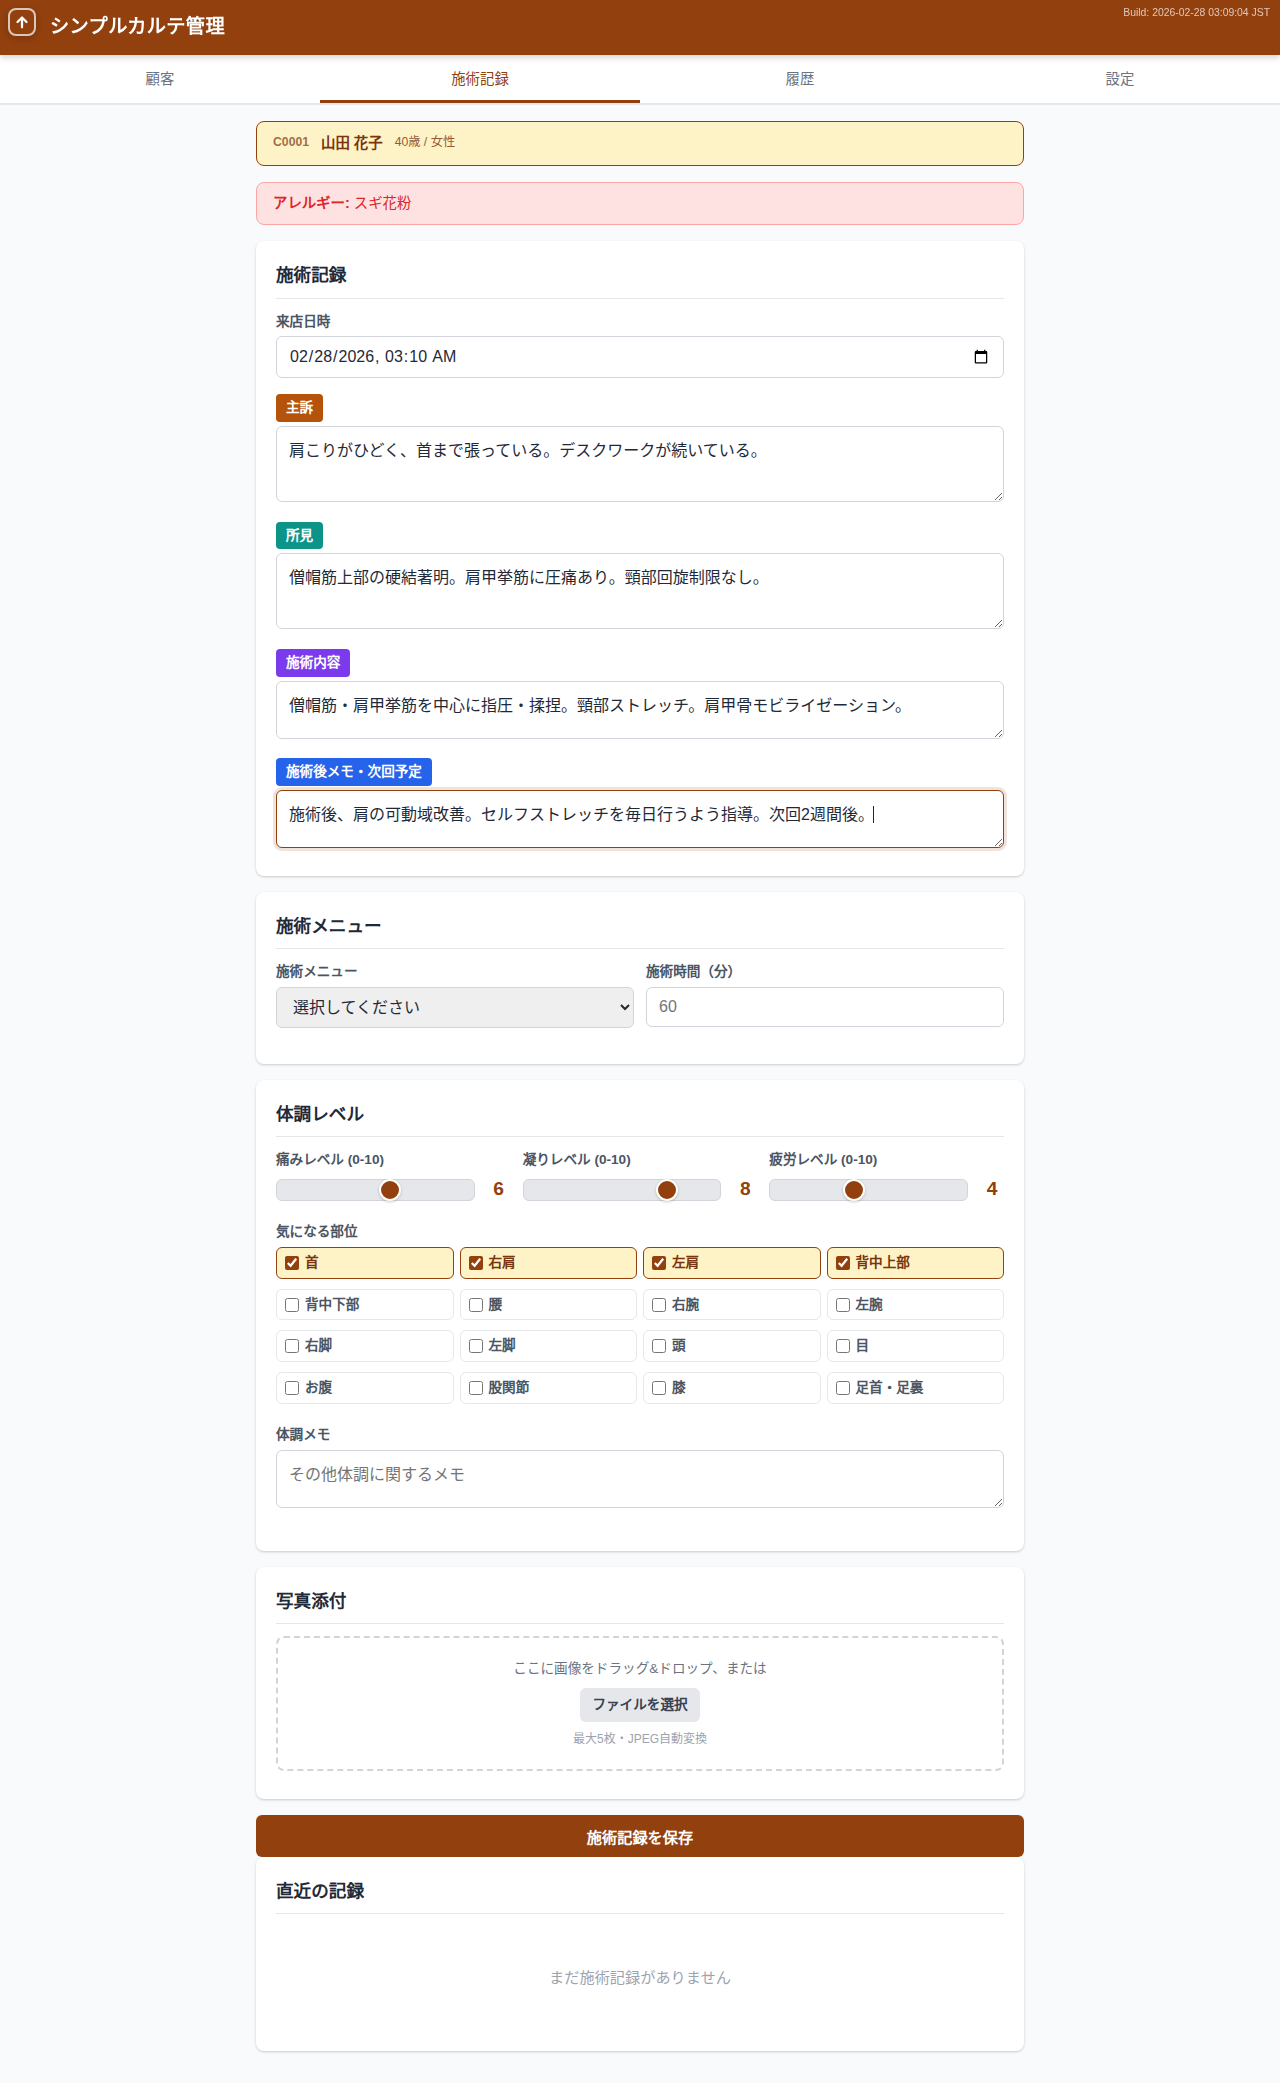
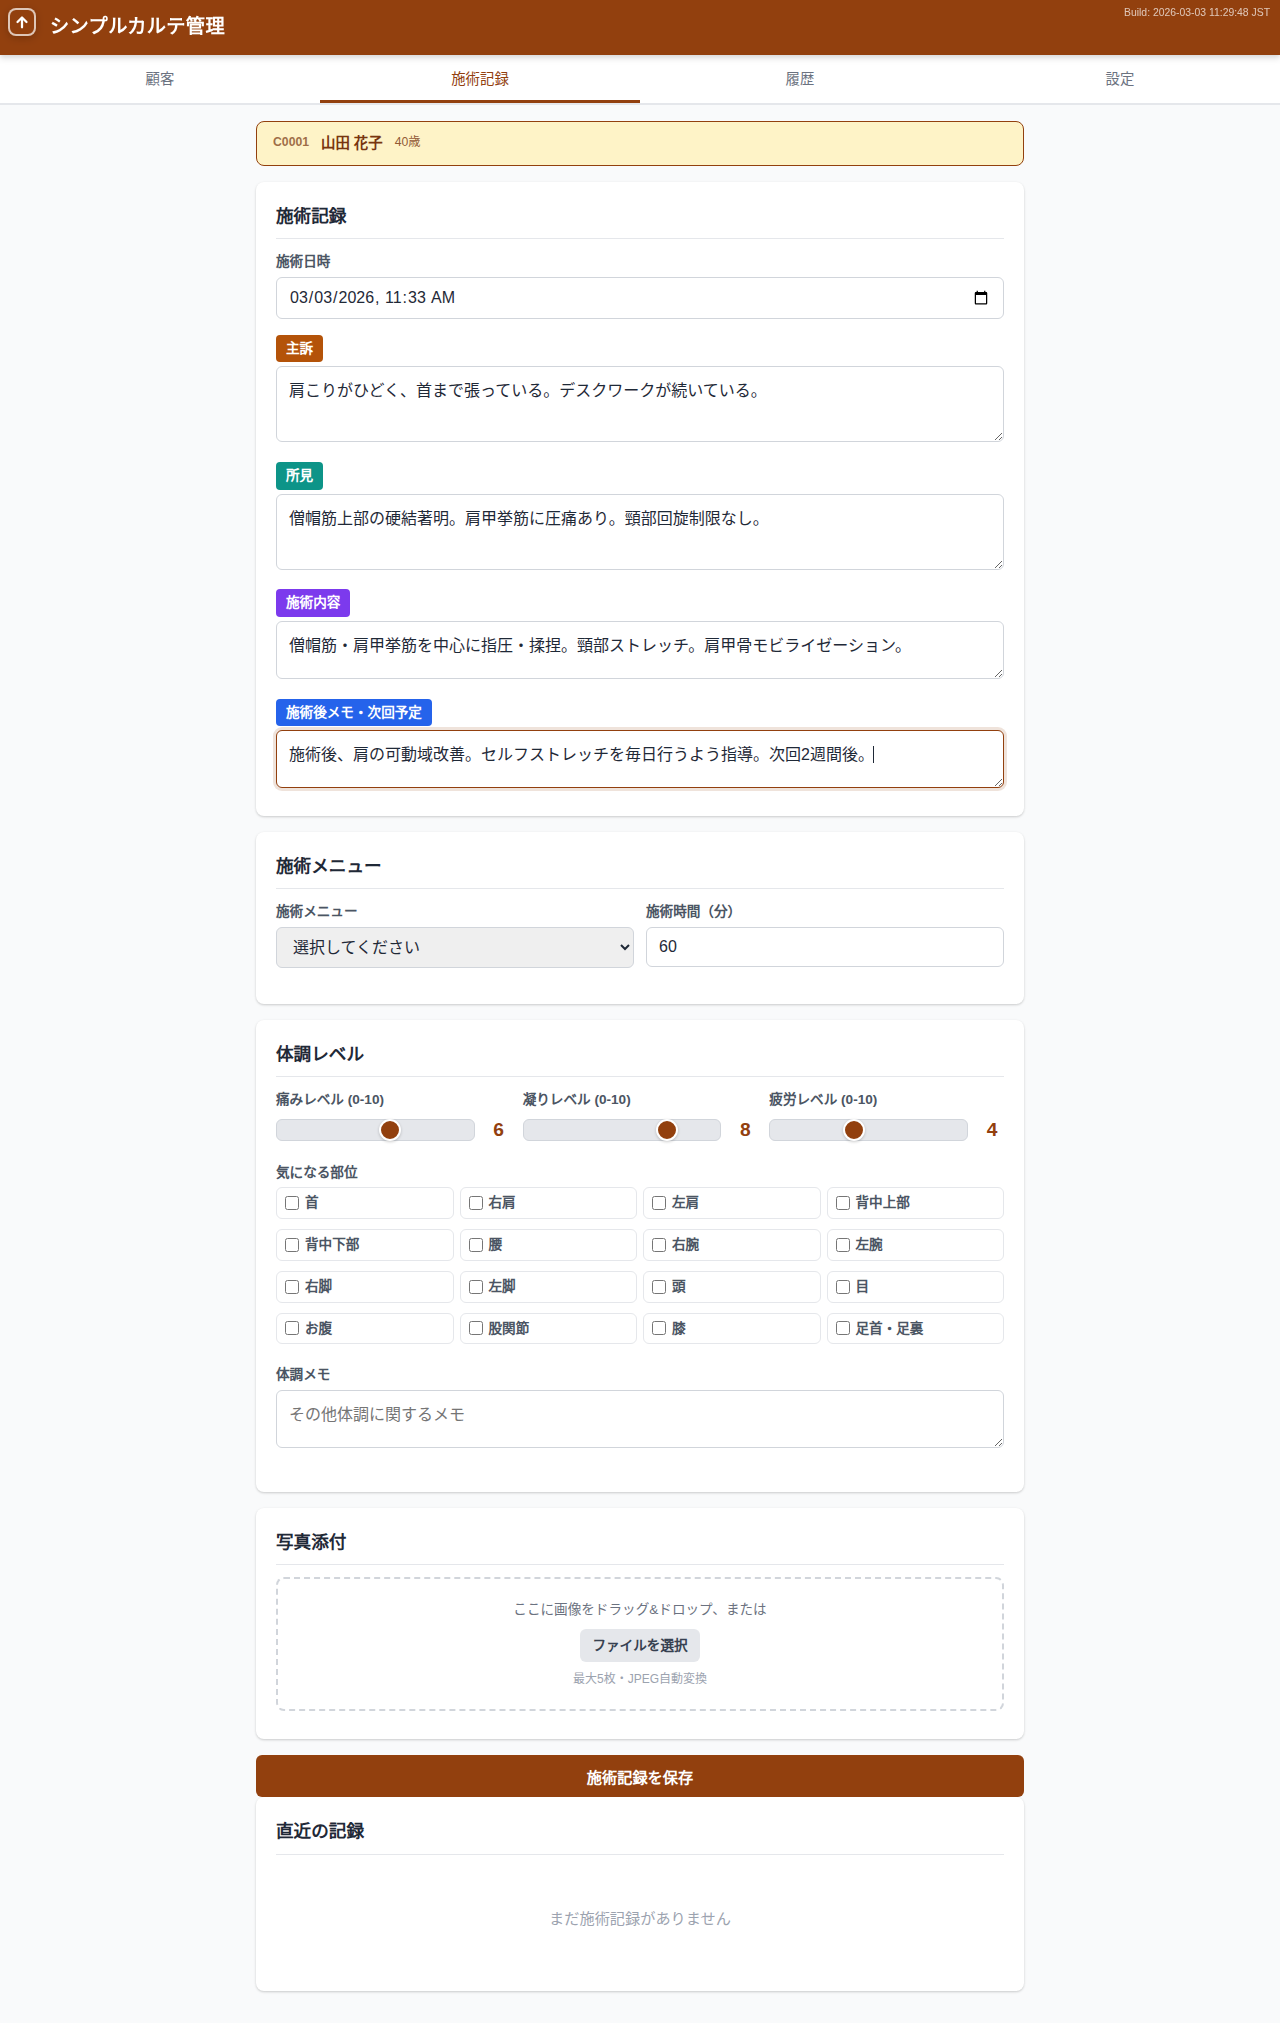
refactor: UI・ドキュメントの「来店」「訪問」用語を中立的な表現に統一
- 「来店履歴」「訪問履歴」→「施術履歴」に統一（来店/訪問を問わない表現）
- 「来店日時」→「施術日時」に変更
- 「来店動機」→「利用動機」に変更
- 「初回来店日」→「初回施術日」に変更
- 「来店情報」→「利用情報」に変更（顧客詳細セクション見出し）
- 対象業種（鍼灸・マッサージ等）の出張施術にも対応できる中立的な表現を採用
- IndexedDBフィールド名・DOM IDは既存データ互換性のため維持
- 影響するスクリーンショット4枚を再撮影して更新

diff --git a/local_app/index.html b/local_app/index.html
@@ -77,7 +77,7 @@
             <div class="card">
                 <h3>施術記録</h3>
                 <div class="form-group">
-                    <label>来店日時</label>
+                    <label>施術日時</label>
                     <input type="datetime-local" id="input-visited-at" autocomplete="off">
                 </div>
                 <div class="treatment-form">
@@ -204,7 +204,7 @@
             <div id="history-customer-bar" class="customer-info-bar"></div>
             <div class="card">
                 <div class="history-controls">
-                    <h3>来店履歴</h3>
+                    <h3>施術履歴</h3>
                     <button class="btn btn-sm" id="sort-toggle-btn">並び替え</button>
                 </div>
                 <div id="timeline-container" class="timeline-container"></div>
@@ -247,7 +247,7 @@
                     <label><input type="checkbox" data-display-key="fields.customer.email" checked> メールアドレス</label>
                     <label><input type="checkbox" data-display-key="fields.customer.address" checked> 住所</label>
                     <label><input type="checkbox" data-display-key="fields.customer.occupation" checked> 職業</label>
-                    <label><input type="checkbox" data-display-key="fields.customer.firstVisit" checked> 初回来店日</label>
+                    <label><input type="checkbox" data-display-key="fields.customer.firstVisit" checked> 初回施術日</label>
                     <label><input type="checkbox" data-display-key="fields.customer.practitioner" checked> 担当施術者</label>
                     <label><input type="checkbox" data-display-key="fields.customer.memo" checked> 備考</label>
                     <label><input type="checkbox" data-display-key="fields.customer.allergies" checked> アレルギー情報</label>
@@ -376,13 +376,13 @@
                         <input type="text" id="input-customer-referral" placeholder="例: ホットペッパー、紹介" autocomplete="off">
                     </div>
                     <div class="form-group">
-                        <label>来店動機</label>
+                        <label>利用動機</label>
                         <input type="text" id="input-customer-motivation" placeholder="例: 肩こりがひどい" autocomplete="off">
                     </div>
                 </div>
                 <div class="form-row">
                     <div class="form-group" data-field-key="customer.firstVisit">
-                        <label>初回来店日</label>
+                        <label>初回施術日</label>
                         <input type="date" id="input-customer-first-visit" autocomplete="off">
                     </div>
                     <div class="form-group" data-field-key="customer.practitioner">
@@ -436,7 +436,7 @@
             <form id="edit-record-form" autocomplete="off">
                 <input type="hidden" id="edit-record-id">
                 <div class="form-group">
-                    <label>来店日時</label>
+                    <label>施術日時</label>
                     <input type="datetime-local" id="edit-visited-at" autocomplete="off">
                 </div>
                 <div class="treatment-form">

diff --git a/local_app/script.js b/local_app/script.js
@@ -797,14 +797,14 @@ async function openCustomerDetail(customerId) {
     html += detailRow('住所', customer.address, 'customer.address');
     html += '</dl></div>';
 
-    // 来店情報
+    // 利用情報
     html += '<div class="detail-section">';
-    html += '<h4>来店情報</h4>';
+    html += '<h4>利用情報</h4>';
     html += '<dl class="detail-dl">';
     html += detailRow('職業', customer.occupation, 'customer.occupation');
     html += detailRow('紹介元', customer.referralSource);
-    html += detailRow('来店動機', customer.visitMotivation);
-    html += detailRow('初回来店日', customer.firstVisitDate ? formatDate(customer.firstVisitDate) : '', 'customer.firstVisit');
+    html += detailRow('利用動機', customer.visitMotivation);
+    html += detailRow('初回施術日', customer.firstVisitDate ? formatDate(customer.firstVisitDate) : '', 'customer.firstVisit');
     html += detailRow('担当施術者', customer.practitioner, 'customer.practitioner');
     html += '</dl></div>';
 

diff --git a/docs/manual.md b/docs/manual.md
@@ -6,7 +6,7 @@
 2. [画面構成](#2-画面構成)
 3. [顧客管理](#3-顧客管理)
 4. [施術記録](#4-施術記録)
-5. [訪問履歴](#5-訪問履歴)
+5. [施術履歴](#5-施術履歴)
 6. [設定](#6-設定)
 7. [データの保存について](#7-データの保存について)
 
@@ -49,7 +49,7 @@
 |------|------|
 | **顧客** | 顧客の検索・一覧表示・新規登録 |
 | **施術記録** | 選択した顧客の施術記録を入力 |
-| **履歴** | 選択した顧客の来店履歴をタイムラインで表示 |
+| **履歴** | 選択した顧客の施術履歴をタイムラインで表示 |
 | **設定** | データ管理・表示設定・アプリ情報 |
 
 ![顧客タブ（初期画面）](images/01_customers_empty.png)
@@ -78,8 +78,8 @@
    - メールアドレス
    - 住所
    - 職業
-   - 紹介元・来店動機
-   - 初回来店日・担当施術者
+   - 紹介元・利用動機
+   - 初回施術日・担当施術者
    - 備考
    - アレルギー情報
    - 既往歴
@@ -149,7 +149,7 @@
 
 - 基本情報（顧客コード、氏名、ふりがな、生年月日・年齢、性別）
 - 連絡先（電話番号、メール、住所）
-- 来店情報（職業、紹介元、来店動機、初回来店日、担当施術者）
+- 利用情報（職業、紹介元、利用動機、初回施術日、担当施術者）
 - 備考
 - アレルギー情報
 - 既往歴
@@ -176,7 +176,7 @@
 
 #### 基本情報
 
-- **来店日時**: デフォルトで現在日時が設定されます。変更も可能です
+- **施術日時**: デフォルトで現在日時が設定されます。変更も可能です
 
 #### 施術内容（4つのテキストエリア）
 
@@ -236,17 +236,17 @@
 
 ---
 
-## 5. 訪問履歴
+## 5. 施術履歴
 
 ### 5.1 タイムライン表示
 
 1. 「顧客」タブで顧客を選択した後、「履歴」タブを開きます
 2. 選択した顧客の施術記録がタイムライン形式で表示されます
 
-![訪問履歴タイムライン](images/08_history_timeline.png)
+![施術履歴タイムライン](images/08_history_timeline.png)
 
 各記録には以下の情報が表示されます:
-- 来店日時
+- 施術日時
 - 主訴・所見・施術内容・施術後メモ
 - 施術メニュー・時間
 - 体調レベル
@@ -311,7 +311,7 @@
 使用しないフィールドを非表示にして、画面をシンプルにできます。
 
 **顧客情報フィールド（12項目）**:
-顧客コード、ふりがな、電話番号、メールアドレス、住所、職業、初回来店日、担当施術者、備考、アレルギー情報、既往歴、写真添付
+顧客コード、ふりがな、電話番号、メールアドレス、住所、職業、初回施術日、担当施術者、備考、アレルギー情報、既往歴、写真添付
 
 **施術記録フィールド（4項目）**:
 施術メニュー、施術時間、体調レベル、写真添付

diff --git a/docs/requirements_definition.md b/docs/requirements_definition.md
@@ -13,7 +13,7 @@
 - 顧客情報の検索に時間がかかる
 - カルテの紛失・劣化リスク
 - 情報の共有・バックアップが困難
-- 来店履歴の把握に手間がかかる
+- 施術履歴の把握に手間がかかる
 
 一方、既存の電子カルテシステムは高額な導入コスト・月額費用が障壁となり、小規模施術院での導入が進んでいない。
 
@@ -53,8 +53,8 @@
 | 住所 | string | | |
 | 職業 | string | | |
 | 紹介元 | string | | |
-| 来店動機 | string | | |
-| 初回来店日 | date | | |
+| 利用動機 | string | | |
+| 初回施術日 | date | | |
 | 担当施術者 | string | | |
 | 備考 | string | | |
 | アレルギー情報 | array | | アレルゲン名・重症度・備考 |
@@ -89,7 +89,7 @@
 |---|-----------|------|
 | 1 | 基本情報 | 顧客コード、氏名、ふりがな、生年月日（年齢）、性別 |
 | 2 | 連絡先 | 電話番号、メール、住所 |
-| 3 | 来店情報 | 職業、紹介元、来店動機、初回来店日、担当施術者 |
+| 3 | 利用情報 | 職業、紹介元、利用動機、初回施術日、担当施術者 |
 | 4 | 備考 | 備考テキスト |
 | 5 | アレルギー情報 | アレルゲン名・重症度・備考の一覧 |
 | 6 | 既往歴 | 疾患名・備考の一覧 |
@@ -115,7 +115,7 @@ IndexedDB `customers` ストア（keyPath: `id`）
 
 | フィールド | 型 | 必須 | バリデーション |
 |-----------|-----|------|-------------|
-| 来店日時 | datetime | | デフォルト:現在日時 |
+| 施術日時 | datetime | | デフォルト:現在日時 |
 | 主訴 | string | △ | 2000文字以内 |
 | 所見 | string | △ | 2000文字以内 |
 | 施術内容 | string | △ | 2000文字以内 |
@@ -264,7 +264,7 @@ IndexedDB `media` ストア（keyPath: `id`）
 
 **顧客情報フィールド（12項目）**
 
-顧客コード、ふりがな、電話番号、メールアドレス、住所、職業、初回来店日、担当施術者、備考、アレルギー情報、既往歴、写真添付
+顧客コード、ふりがな、電話番号、メールアドレス、住所、職業、初回施術日、担当施術者、備考、アレルギー情報、既往歴、写真添付
 
 **施術記録フィールド（4項目）**
 

diff --git a/docs/basic_design.md b/docs/basic_design.md
@@ -221,7 +221,7 @@ smrm/
 |---|--------|--------|------|
 | 1 | `customers` | 顧客 | 顧客検索・一覧・新規登録 |
 | 2 | `treatment` | 施術記録 | 施術記録入力（顧客選択が前提） |
-| 3 | `history` | 履歴 | 訪問履歴タイムライン（顧客選択が前提） |
+| 3 | `history` | 履歴 | 施術履歴タイムライン（顧客選択が前提） |
 | 4 | `settings` | 設定 | データ管理・メニュー管理・表示設定・画像設定 |
 
 ### 4.2 画面フロー
@@ -238,7 +238,7 @@ smrm/
   ├── 顧客情報バー（クリックで顧客詳細オーバーレイを表示）
   ├── アレルギー警告（該当時）
   ├── 施術記録入力フォーム
-  │     ├── 来店日時
+  │     ├── 施術日時
   │     ├── 主訴/所見/施術内容/施術後メモ
   │     ├── 前回施術後メモヒント
   │     ├── 施術メニュー・時間

diff --git a/docs/detailed_design.md b/docs/detailed_design.md
@@ -330,7 +330,7 @@
 |---|-----------|----------|---------|
 | 1 | 基本情報 | `detail-section` | 顧客コード、氏名、ふりがな、生年月日（年齢自動計算）、性別 |
 | 2 | 連絡先 | `detail-section` | 電話番号、メール、住所 |
-| 3 | 来店情報 | `detail-section` | 職業、紹介元、来店動機、初回来店日、担当施術者 |
+| 3 | 利用情報 | `detail-section` | 職業、紹介元、利用動機、初回施術日、担当施術者 |
 | 4 | 備考 | `detail-section` | 備考テキスト（未入力時は「---」） |
 | 5 | アレルギー情報 | `detail-section` | アレルゲン名・重症度バッジ・備考の一覧（未登録時は「登録なし」） |
 | 6 | 既往歴 | `detail-section` | 疾患名・備考の一覧（未登録時は「登録なし」） |
